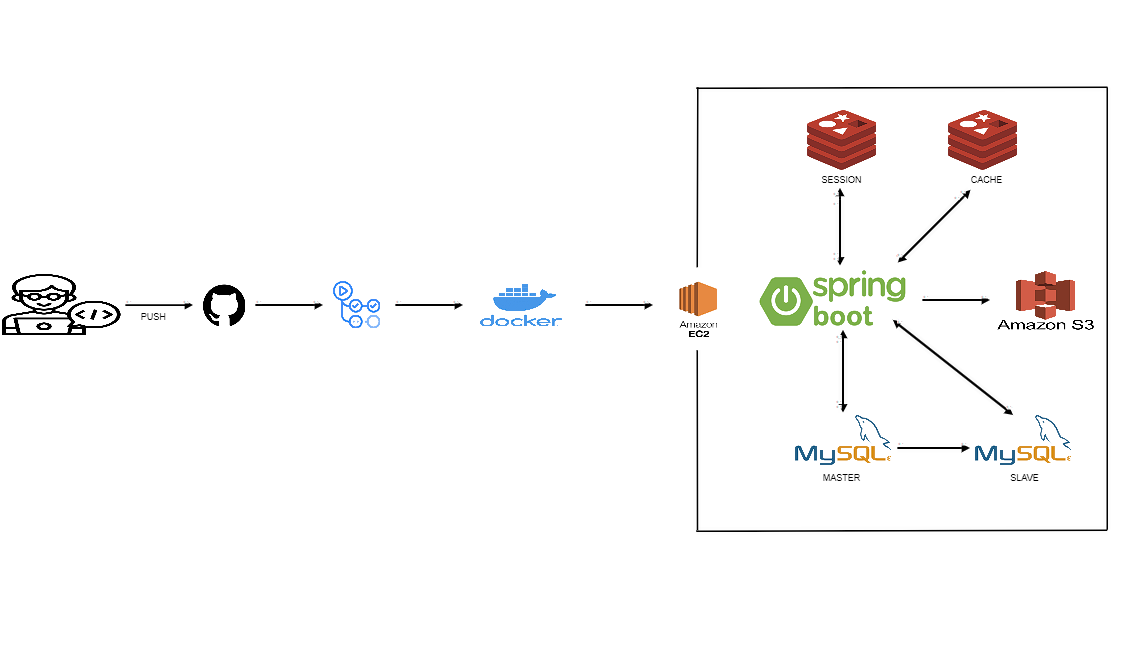
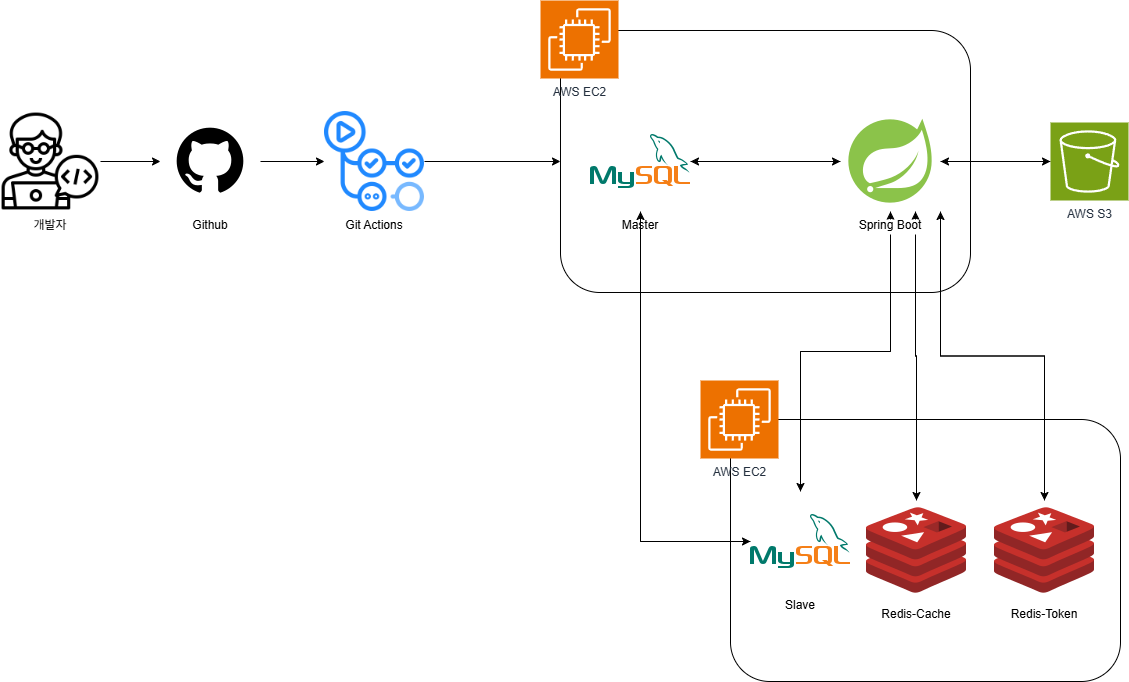
[Docs] 아키텍처 이미지 변경 및 배포 흐름 이미지 추가

diff --git a/README.md b/README.md
@@ -124,6 +124,10 @@
 
 ---
 
+### 배포 흐름
+
+<img src="img/today_table_deploy.png" style="width:60%;"  alt="배포 흐름"/>
+
 ## 📡 API 명세서
 
 - [Swagger](http://mystudyproject.store:8080/swagger-ui/index.html)
